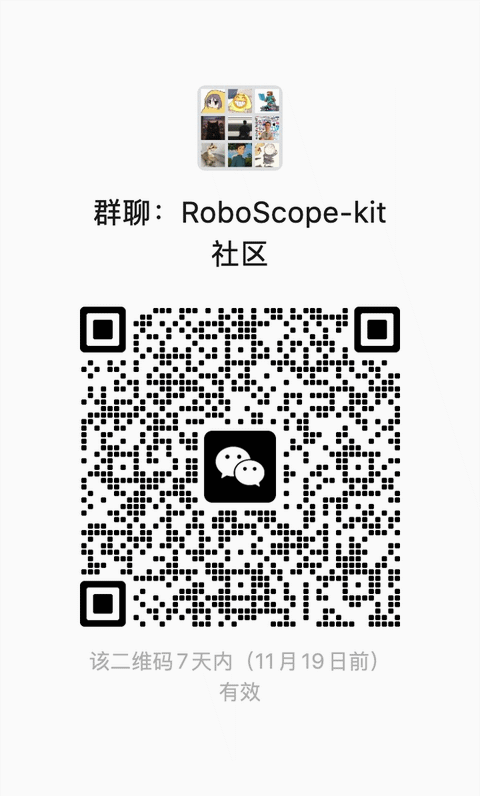
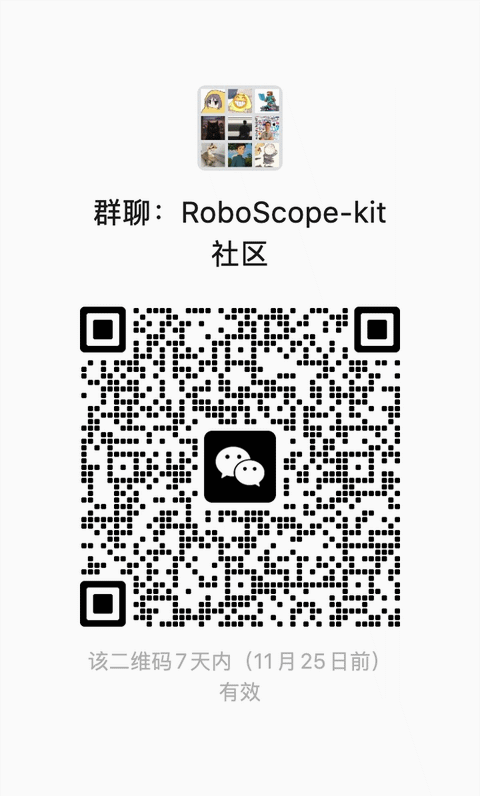
docs(repo): update the WeChat community QR code (#132)
The new invitation is valid until November 25, 2026. The image is stored
at 480 px with a dithered 256-color palette (148 KB source to 39 KB).

Changed region(s): [[0.1562, 0.392, 0.8438, 0.8442], [0.1875, 0.8141, 0.2188, 0.8442]]

diff --git a/README.md b/README.md
@@ -226,6 +226,6 @@ Ask questions, share your results, and discuss new benchmarks in
 [Issues](https://github.com/MINT-SJTU/RoboScope-Kit/issues).
 
 WeChat users can also scan the QR code to join the RoboScope Kit group (the invitation is valid before
-November 19, 2026):
+November 25, 2026):
 
 <img src="docs/community-qr.png" alt="WeChat QR code for the RoboScope Kit community" width="240">
